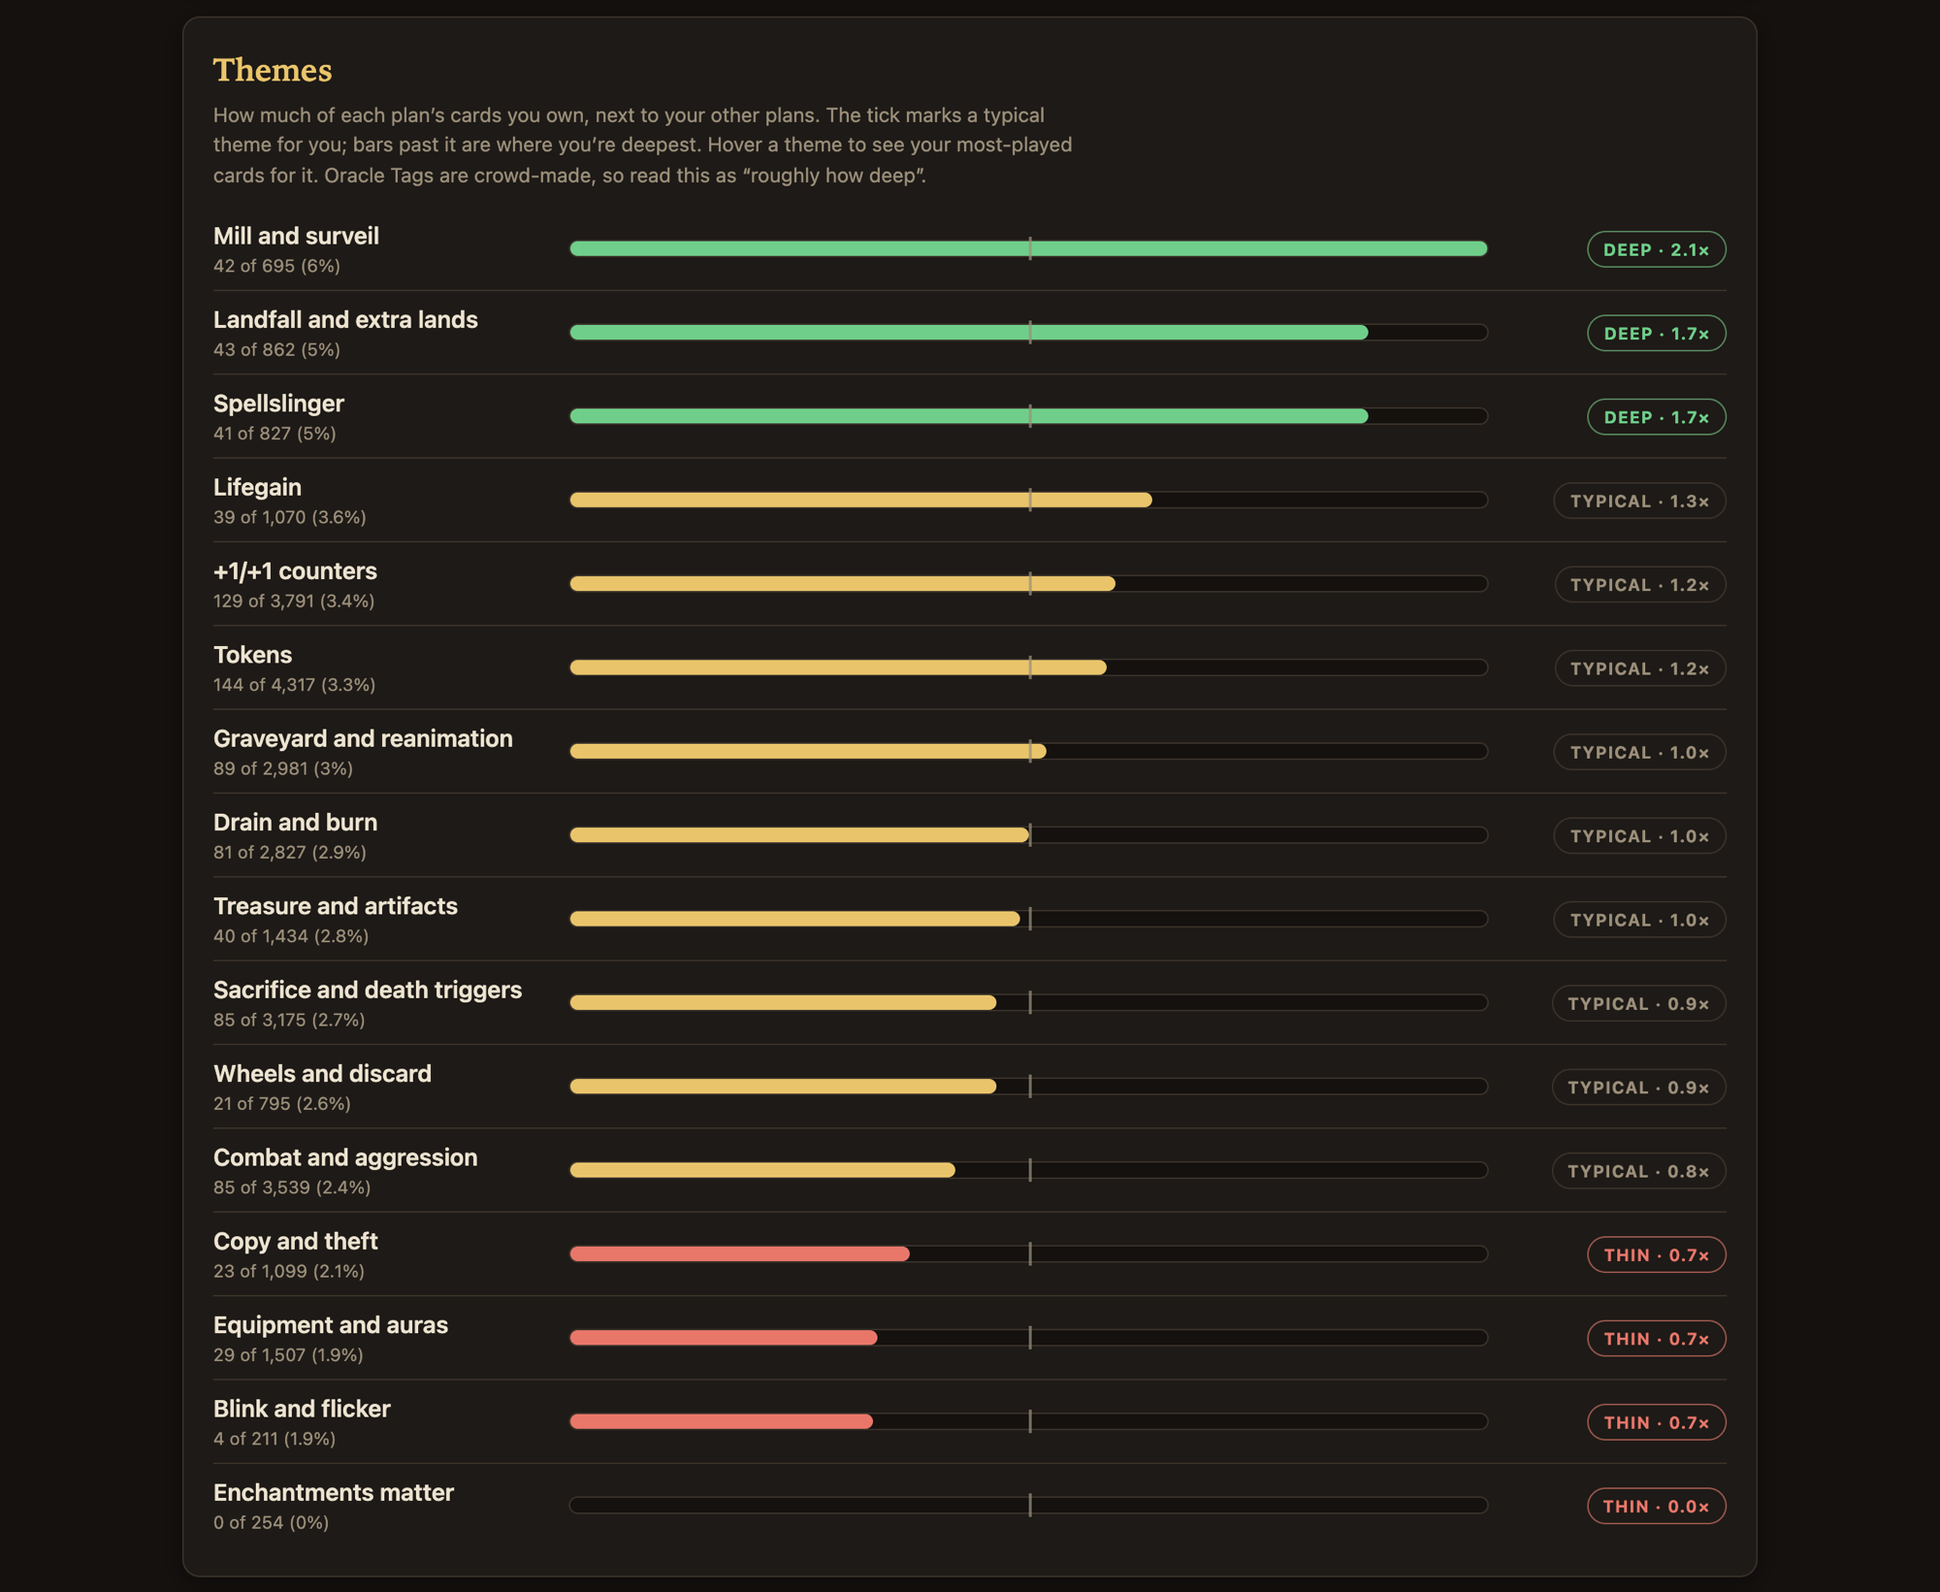
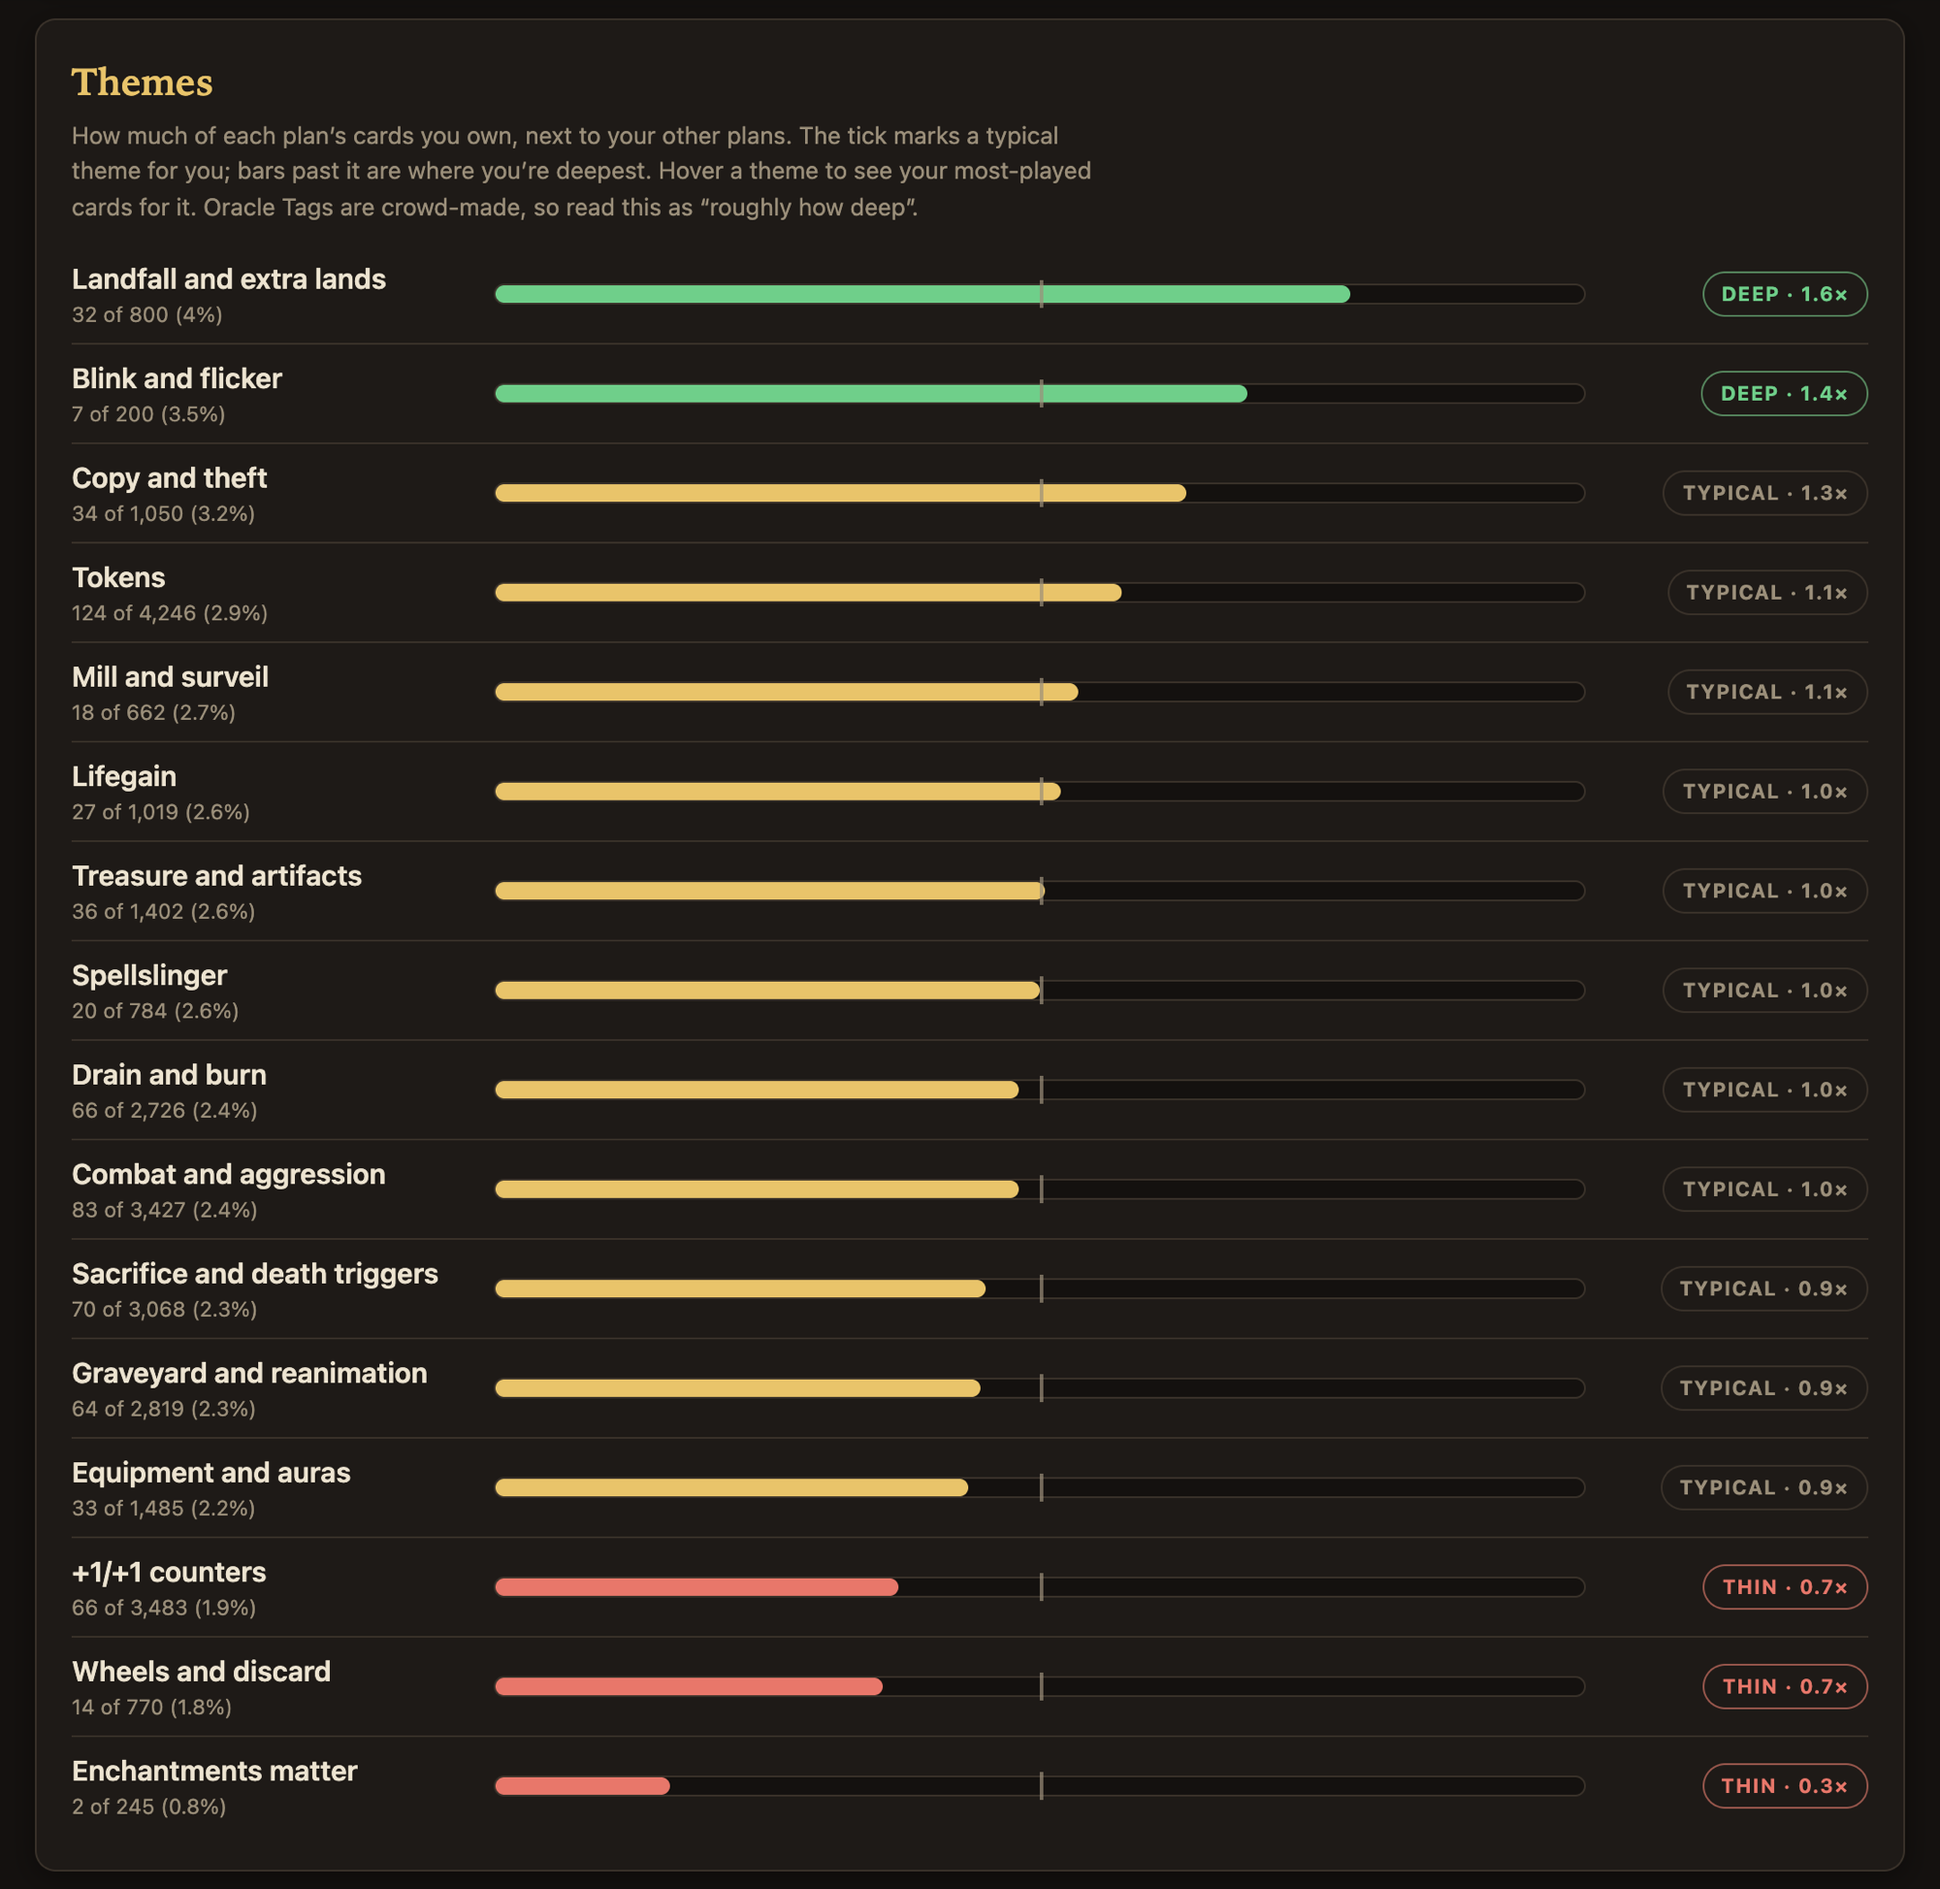
README and screenshots brought up to date: new Land search row, Browse cards, Commander research and Matchups sections with screenshots, store picker applying everywhere, Decks page links; retake decks and Collection insights shots (made-up sample collection, public Archidekt decks)

diff --git a/README.md b/README.md
@@ -18,7 +18,11 @@ and checks any [Moxfield](https://moxfield.com) or
   what's missing, and what it'll cost to finish at today's market prices,
   with budget alternatives, Game Changers, legality and combos.
 - **See your collection**: a **Collection insights** page shows where your
-  collection is deep and where it's thin, by color, role and theme.
+  collection is deep and where it's thin, by color, role and theme, and a
+  **Browse cards** view lists and adds up the cards you own under any filter.
+- **Research a commander**: **Commander research** looks at any commander,
+  owned or not: how people build it, how much of that build you own and what
+  it costs to finish, and what the build is weak to.
 
 Available two ways: a **web app** (upload a CSV, build or paste a URL, done —
 no terminal needed) and the original **CLI** (menu-driven, generates
@@ -34,8 +38,9 @@ Deck Builder is web-app only.
 The **Decks** page is home base for both tools: a **Compare** panel on top
 (paste a decklist URL) and your saved decks as art tiles below, badged **Brew**
 or **Comparison**, with a filter, a **Brew something new** tile, and a small
-&times; to delete one. The app is dark by default and switches to light with
-your system.
+&times; to delete one. Links across the top open **Collection & Settings**,
+**Collection insights** and **Commander research**. The app is dark by default
+and switches to light with your system.
 
 ![Decks page: Compare panel, Brew and Comparison tiles](screenshots/decks.png)
 
@@ -119,7 +124,10 @@ tile). A saved brew can be run through the same report a compared deck gets.
   against common deck types, naming popular commanders of each kind (ones the
   build should handle, and ones that tend to give it trouble; click one to
   research it). These are rules of thumb from the deck's own cards, not a
-  simulation, and it all works offline
+  simulation, and it all works offline. Cards you already own are marked with
+  a check, and the rest show the cheapest price
+
+![Matchups: what a Teysa Karlov build is weak to, with the cards that punish it and the ones to answer them (shown on the Commander research page, where the same panel runs on a typical list)](screenshots/matchups.png)
 
 ![Analyze Deck: mana simulation, curve, sample hand](screenshots/analyze.png)
 
@@ -134,9 +142,13 @@ Paste a Moxfield or Archidekt link on the Decks page:
 
 - See what you own and what's missing, with prices at today's market. Owned
   cards are priced by the *exact printing you have*, missing ones by the
-  cheapest printing across TCGPlayer, Card Kingdom and ManaPool (Cardmarket is
-  an opt-in extra, shown separately in EUR), with a foil toggle and ▲/▼ trend
-  arrows from MTGJSON's 90-day history
+  cheapest printing across the stores you pick (TCGPlayer, Card Kingdom and
+  ManaPool; Cardmarket is an opt-in extra, shown separately in EUR), with a foil
+  toggle and ▲/▼ trend arrows from MTGJSON's 90-day history. The **Prices from**
+  picker on the Compare panel saves as soon as you tick a box, and the same
+  choice sets the prices everywhere else: Deck Builder suggestions, Commander
+  research, Matchups and Collection insights (so "ManaPool only" means
+  ManaPool prices throughout; a card that store doesn't list shows no price)
 - Prices come from a local MTGJSON index (a one-time ~325MB download,
   refreshed weekly or on demand), so lookups are instant
 - For missing cards over $20, **budget alternatives** from Scryfall's Oracle
@@ -168,8 +180,9 @@ card database and Scryfall's Oracle Tags.
 - **Snapshot and colors:** unique cards, copies, rough value, foils, sets, and
   your unique nonland cards by color identity
 - **Roles by color:** a grid of ramp, card draw, spot removal, board wipes,
-  counterspells, tutors, recursion, sacrifice outlets, token makers and
-  lifegain against each color. Each cell shows your count and the share of all
+  counterspells, tutors, land search (landcycling, Cultivate and the like, kept
+  out of Tutors), recursion, sacrifice outlets, token makers and lifegain
+  against each color. Each cell shows your count and the share of all
   such cards that exist in that color. Every row is shaded from red (your
   lowest color for that job) to green (your highest), and a toggle switches the
   shading to the share you own instead of the count
@@ -195,12 +208,15 @@ card database and Scryfall's Oracle Tags.
 - **Browse cards:** a second tab on the page lists every card you own (lands
   included) and lets you filter it by name or type, card type, color (click a
   color to allow it, again to require it, with an exact-colors toggle like the
-  builder's), sets, price of a copy (judged by the priciest copy you own of a card), foils, and
-  the roles and themes above, then sort it by name, priciest copy, total value, mana value, popularity or copies. The
-  totals follow the filters: unique cards, copies, total value, average per
-  card and the priciest card. It shows pictures or a compact list, with hover
-  to enlarge and flip buttons. Value is the market price of the exact printing
-  you own, the same prices the Rough value tile adds up
+  builder's), sets, price of a copy (judged by the priciest copy you own of a
+  card), foils, and the roles and themes above. Sort by name, priciest copy,
+  total value, mana value, popularity or copies. The totals follow the
+  filters: unique cards, copies, total value, average per card and the
+  priciest copy. It shows pictures or a compact list, with hover to enlarge and
+  flip buttons. Value is the market price of the exact printing you own, the
+  same prices the Rough value tile adds up
+
+![Browse cards: green creatures worth at least $1, sorted by total value, with the totals above](screenshots/collection-browse.png)
 
 - **Themes:** graveyard, sacrifice, tokens, +1/+1 counters, landfall,
   spellslinger and more, each showing how much of that plan's cards you own
@@ -233,6 +249,8 @@ EDHREC, with the same past 2 years / month / week choice the builder has):
 
 A commander's EDHREC data is fetched the first time you look at it and saved,
 so only the first look at one that isn't saved yet needs the internet.
+
+![Commander research: Teysa Karlov's deck types, what you own of the typical Aristocrats build and what it costs to finish](screenshots/commander-research.png)
 
 ## Requirements
 
